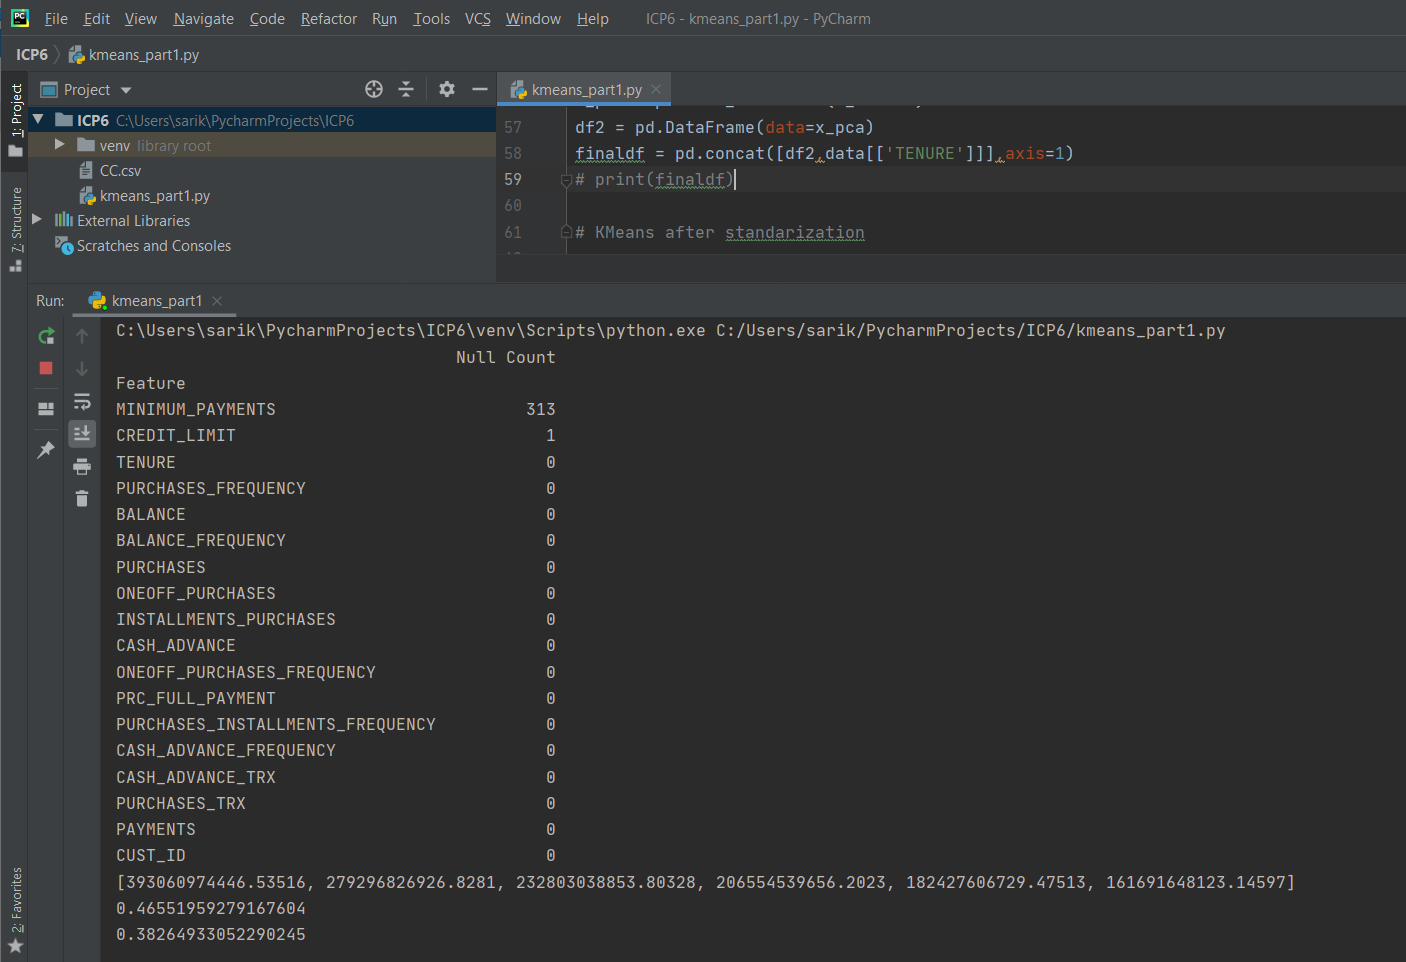
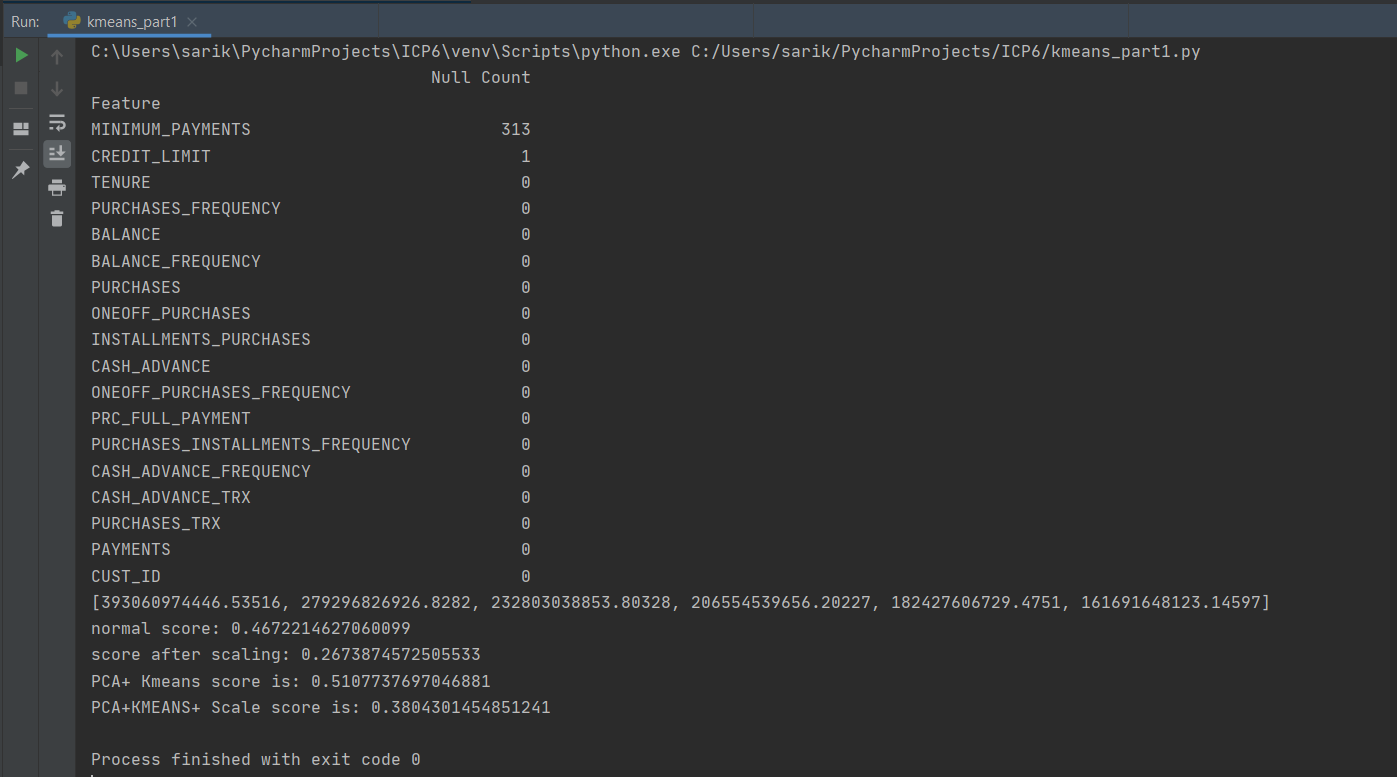
ICP6
ICP6

diff --git a/ICP6/codes/kmeans_part1.py b/ICP6/codes/kmeans_part1.py
@@ -10,6 +10,8 @@ sns.set(style="white", color_codes=True)
 
 data = pd.read_csv('CC.csv')
 
+#QUESTION 1
+
 # finding  Null values in the dataset
 nulls = pd.DataFrame(data.isnull().sum().sort_values(ascending=False)[:25])
 nulls.columns = ['Null Count']
@@ -37,34 +39,62 @@ plt.xlabel('Number of Clusters')
 plt.ylabel('Wcss')
 plt.show()
 
-#Calculate the silhoutte score #n_clusters = 3
+#QUESTION 2:
+
+#Calculate the silhoutte score
 km = KMeans(n_clusters=3)
 km.fit(x)
 Y_cluster_kmeans= km.predict(x)
 from sklearn import metrics
 score = metrics.silhouette_score(x, Y_cluster_kmeans)
-print(score)
+print('normal score:', score)
 
-# feature scaling
+#QUESTION 3:
+
+#  Trying feature scaling
 scaler = StandardScaler()
-# Fit on training set only.
 scaler.fit(x)
-
-# Apply PCA.
 x_scaler = scaler.transform(x)
-pca = PCA(3)
-x_pca = pca.fit_transform(x_scaler)
-df2 = pd.DataFrame(data=x_pca)
-finaldf = pd.concat([df2,data[['TENURE']]],axis=1)
-# print(finaldf)
+km = KMeans(n_clusters=3)
+km.fit(x_scaler)
+Y_cluster_kmeans= km.predict(x_scaler)
+from sklearn import metrics
+scaledscore = metrics.silhouette_score(x_scaler, Y_cluster_kmeans)
+print('score after scaling:', scaledscore)
 
-# KMeans after standarization
+#QUESTION 4
+
+# Apply PCA on normal x.
+pca = PCA(3)
+x_pca = pca.fit_transform(x)
+
+
+
+#BONUS QUESTION 1:
+
+  # PCA + Kmeans
 
 km = KMeans(n_clusters=3)
 km.fit(x_pca)
 Y_cluster_kmeans= km.predict(x_pca)
 from sklearn import metrics
-score = metrics.silhouette_score(x_pca, Y_cluster_kmeans)
-print(score)
+pca_means_score = metrics.silhouette_score(x_pca, Y_cluster_kmeans)
+print('PCA+ Kmeans score is:', pca_means_score)
+
+
+ # KMeans +PCA + scaling
+
+pca = PCA(3)
+x_pcascale = pca.fit_transform(x_scaler)
+
+km = KMeans(n_clusters=3)
+km.fit(x_pcascale)
+Y_cluster_kmeans= km.predict(x_pcascale)
+from sklearn import metrics
+pca_means_scale_score = metrics.silhouette_score(x_pcascale, Y_cluster_kmeans)
+print('PCA+KMEANS+ Scale score is:', pca_means_scale_score)
+
+#BONUS QUESTION 2:
+
 plt.scatter(x_pca[:, 0], x_pca[:, 1], c = Y_cluster_kmeans)
 plt.show()
